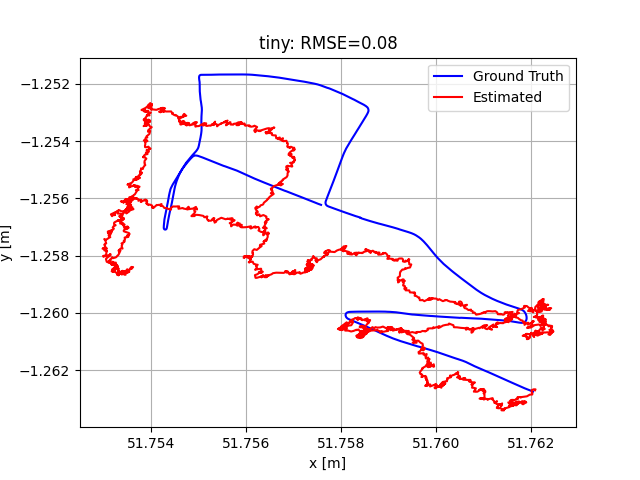
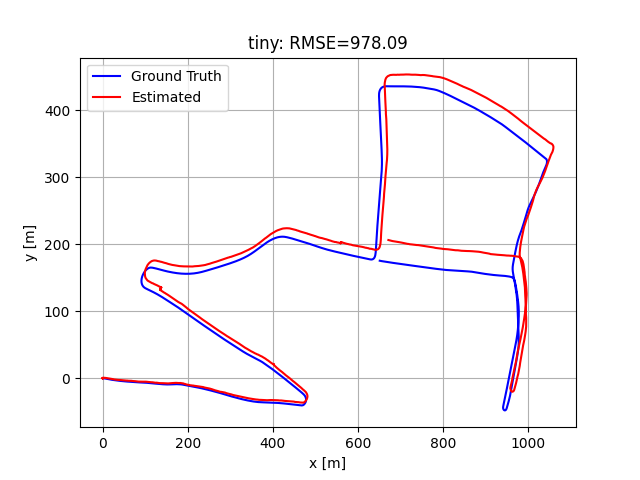
trajectory plotting mostly functional

diff --git a/trajectoryPlotting.py b/trajectoryPlotting.py
@@ -43,10 +43,10 @@ class Trajectory():
         estimatedPoses = estTraj.getPoseAtTime(self.timestamps)
         rmse = np.sqrt(np.mean((np.linalg.norm(self.poses - estimatedPoses))**2))
         return rmse
-    
-def getGroundTruthTrajectory(gtPath : str, integrate=False):
+
+def getGroundTruthTrajectory(gtPath : str):
     '''
-    @brief Returns ground truth trajectory
+    @brief Returns ground truth trajectory given radar_odometry.csv
     @param[in] gtPath Path to ground truth file
     @return Trajectory object
     '''
@@ -55,7 +55,33 @@ def getGroundTruthTrajectory(gtPath : str, integrate=False):
         _ = next(gt_file) # headers
         gt_timestamps = []
         gt_poses = []
-        # import pdb; pdb.set_trace()
+
+        x, y, th = 0, 0, 0
+        for row in gt_reader:
+            timestamp = int(row[0]) # source_timestamp
+            gt_timestamps.append(timestamp)
+            dx = float(row[2]) # x
+            dy = float(row[3]) # y
+            dth = float(row[7]) # yaw
+            x += dx * np.cos(th) + dy * np.sin(th)
+            y += dx * -np.sin(th) + dy * np.cos(th)
+            th += dth
+            gt_poses.append([x,y])
+    gt_timestamps = np.array(gt_timestamps)
+    gt_poses = np.array(gt_poses)
+    return Trajectory(gt_timestamps, gt_poses)
+
+def getGroundTruthTrajectoryGPS(gtPath : str):
+    '''
+    @brief Returns ground truth trajectory given gps.csv
+    @param[in] gtPath Path to ground truth file
+    @return Trajectory object
+    '''
+    with open(gtPath) as gt_file:
+        gt_reader = csv.reader(gt_file)
+        _ = next(gt_file) # headers
+        gt_timestamps = []
+        gt_poses = []
         for row in gt_reader:
             timestamp = int(row[0]) # source_timestamp
             gt_timestamps.append(timestamp)
@@ -64,8 +90,6 @@ def getGroundTruthTrajectory(gtPath : str, integrate=False):
             gt_poses.append([x,y])
     gt_timestamps = np.array(gt_timestamps)
     gt_poses = np.array(gt_poses)
-    if integrate:
-        gt_poses = np.cumsum(gt_poses,axis=0) # integration
     return Trajectory(gt_timestamps, gt_poses)
 
 def viewResults(gtTraj, estTraj, title):
@@ -94,18 +118,20 @@ if __name__ == "__main__":
     timestampPath = os.path.join("data", datasetName, "radar.timestamps")
 
     # gps ground truth
-    gtPath = os.path.join("data", datasetName, "gps", "gps.csv")
-    gtTraj = getGroundTruthTrajectory(gtPath, integrate=False)
+    if datasetName == "tiny":
+        gtPath = os.path.join("data", datasetName, "gps", "gps.csv")
+        gtTraj = getGroundTruthTrajectoryGPS(gtPath)
+        gtTraj.plotTrajectory()
+
+    # radar odometry ground truth seems fishy
+    gtPath = os.path.join("data", datasetName, "gt", "radar_odometry.csv")
+    gtTraj = getGroundTruthTrajectory(gtPath)
     gtTraj.plotTrajectory()
     estArr = gtTraj.getPoseAtTime(gtTraj.timestamps)
-    noise = np.random.multivariate_normal(mean=(1e-11,3e-11),cov=np.array([[1,.5],[.2,1]]) * 1e-9,size=(gtTraj.nFrames))
+    noise = np.random.multivariate_normal(mean=(.01,.01),cov=np.array([[.8,.2],[.2,.8]])*1e-2,size=(gtTraj.nFrames))
     noise = np.cumsum(noise,axis=0) # integration
     estArr = estArr + noise
     estTraj = Trajectory(gtTraj.timestamps, estArr)
     viewResults(gtTraj, estTraj, datasetName)
 
-    # radar odometry ground truth seems fishy
-    gtPath = os.path.join("data", datasetName, "gt", "radar_odometry.csv")
-    gtTraj = getGroundTruthTrajectory(gtPath, integrate=True)
-    gtTraj.plotTrajectory()
-    plt.waitforbuttonpress()
+    plt.waitforbuttonpress(0)

diff --git a/utils.py b/utils.py
@@ -1,0 +1,44 @@
+import numpy as np
+
+def normalize_angles(th):
+    """
+    Normalize an angle to be between -pi and pi
+    """
+    return (th + np.pi) % (2 * np.pi) - np.pi
+
+def abs_to_rel_pose(rob_pose, rel_pose):
+    """
+    rob_pose wrt to world
+    rel_pose wrt to world
+    return rel_pose wrt to rob
+    """
+    T = np.array(
+        [
+            [np.cos(rob_pose[2]), -np.sin(rob_pose[2]), rob_pose[0]],
+            [np.sin(rob_pose[2]), np.cos(rob_pose[2]), rob_pose[1]],
+            [0, 0, 1],
+        ]
+    )
+    xy = np.linalg.inv(T) @ np.array([rel_pose[0], rel_pose[1], 1])
+    th = normalize_angles(rel_pose[2] - rob_pose[2])
+    rel_pose = np.array([float(xy[0]), float(xy[1]), th])
+    return rel_pose
+
+
+def rel_to_abs_pose(rob_pose, rel_pose):
+    """
+    rob_pose wrt to world
+    rel_pose wrt to robot
+    return rel_pose wrt to world
+    """
+    T = np.array(
+        [
+            [np.cos(rob_pose[2]), -np.sin(rob_pose[2]), rob_pose[0]],
+            [np.sin(rob_pose[2]), np.cos(rob_pose[2]), rob_pose[1]],
+            [0, 0, 1],
+        ]
+    )
+    xy = T @ np.array([rel_pose[0], rel_pose[1], 1])
+    th = normalize_angles(rel_pose[2] + rob_pose[2])
+    abs_pose = np.array([float(xy[0]), float(xy[1]), th])
+    return abs_pose
